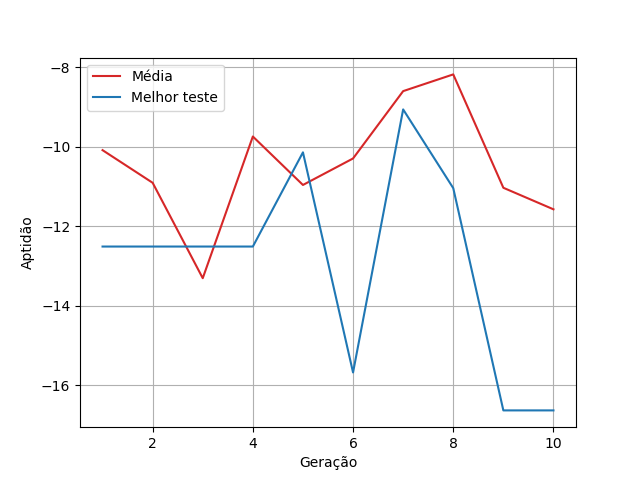
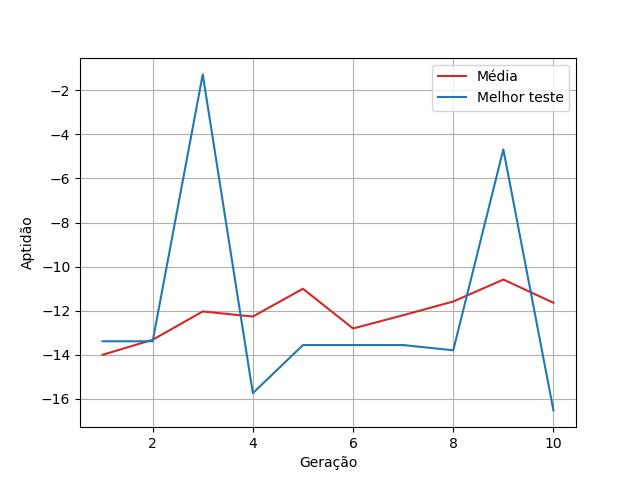
falta acertar elitismo

diff --git a/Genético/genetico.py b/Genético/genetico.py
@@ -125,6 +125,7 @@ def escreve_arquivo(texto, geracao):
     arquivo.close()
 
 def conteudo_arquivo(melhores, media_melhores):
+    texto = ''
 
     texto = '\t;Teste 1; Teste 2; Teste 3;Teste 4; Teste 5; Teste 6;Teste 7; Teste 8; Teste 9;Teste 10 \n Iteracao 1;'
     j = 1
@@ -133,8 +134,7 @@ def conteudo_arquivo(melhores, media_melhores):
         for i in range(0, len(cromossomo)):
             # print(cromossomo)
             texto = texto + str(round(cromossomo[i], 5)).replace('.', ',') + ';'
-        if(j!=11):
-            texto = texto + '\n Iteracao ' + str(j) + ';'
+        texto = texto + '\n Iteracao ' + str(j) + ';'
 
     texto += '\n\n'
 
@@ -210,7 +210,7 @@ def main():
 
     
     for geracao in geracoes:
-        
+        melhores_melhores = []
         for _ in range(0,10):
             melhores = []
             for _ in range(0,geracao):
@@ -226,7 +226,10 @@ def main():
 
                 # 5° Passo: Elitismo
                 elitismo(nova_geracao, populacao)
+
                 populacao = nova_geracao
+
+                #populacao = selecao_torneio(nova_geracao)
                 
                                 
                 melhor_geracao = sorted(nova_geracao, key=Cromossomo.get_aptidao)[0] 
@@ -236,7 +239,9 @@ def main():
             melhores_melhores.append(melhores)
         
         transposta = np.transpose(melhores_melhores)
-        print(transposta)
+
+        print()
+        print("geracao" + str(geracao)+ " :",transposta)
         print() 
 
         media = calcula_media(transposta, geracao)
@@ -246,16 +251,16 @@ def main():
         #mando ultima linha da matriz de resultado para definicao do menor
         melhor_teste = defineMelhor(transposta[-1])
 
-        print("melhor_teste: ", melhor_teste)
+        #print("melhor_teste: ", melhor_teste)
 
-        print("media: ", media)
+        #print("media: ", media)
 
         print()
         
         ##lista melhor teste a partir do ultimo melhor
         lstMelhorTeste = listaMelhorTeste(transposta, melhor_teste[1])
 
-        print("lst melhor teste: ", lstMelhorTeste)
+        #print("lst melhor teste: ", lstMelhorTeste)
 
 
         
